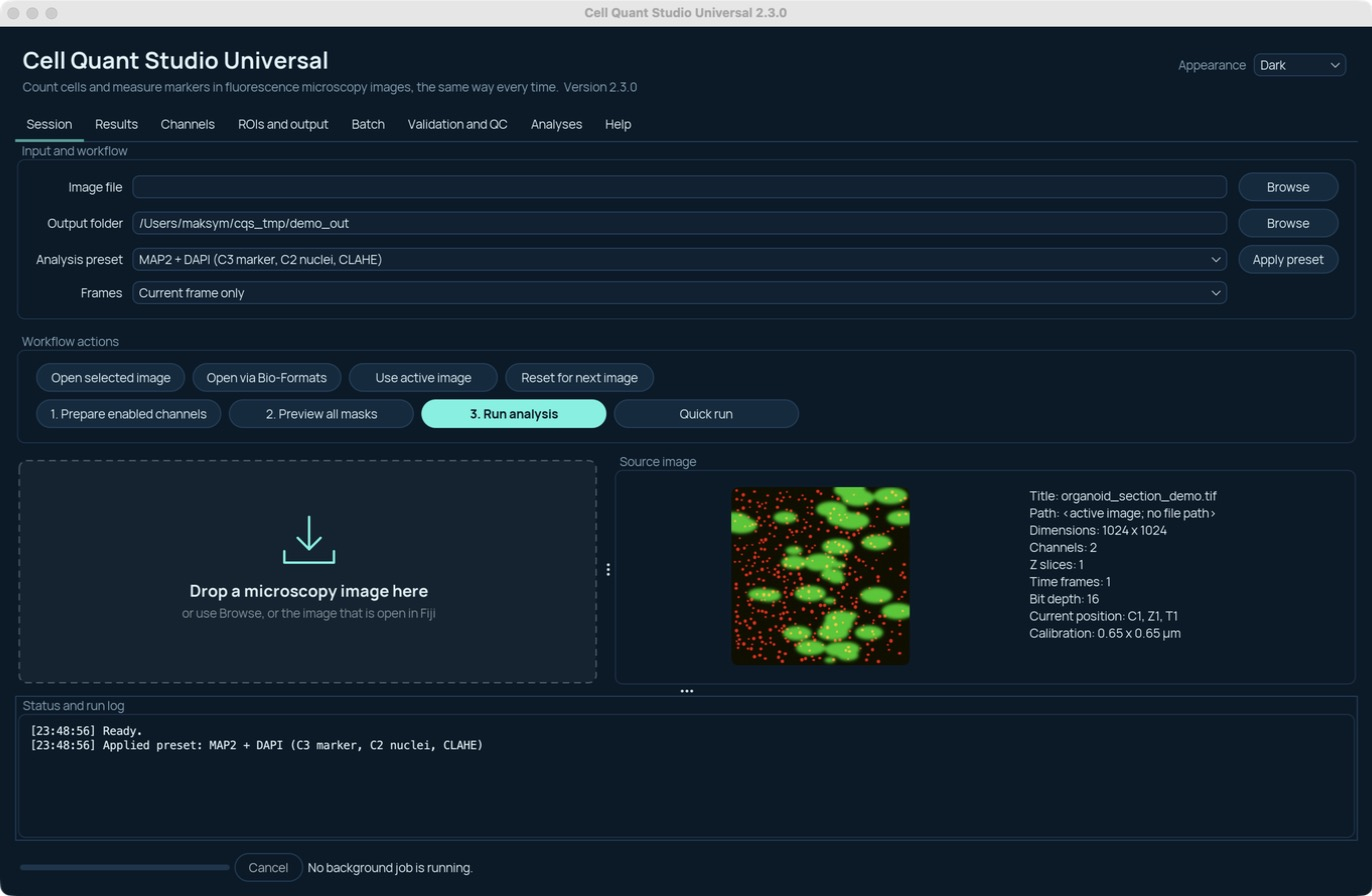
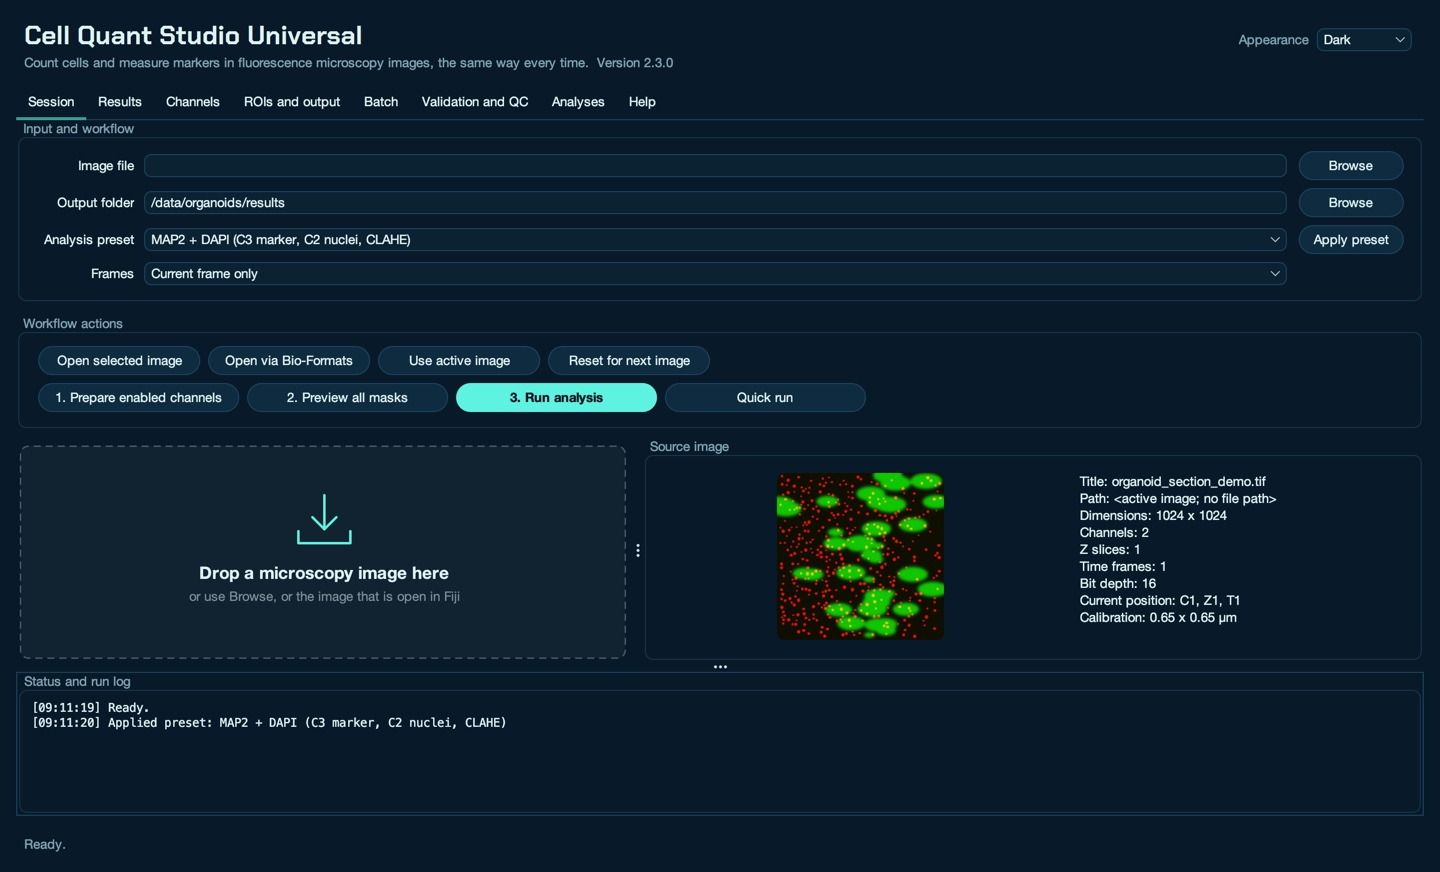
Session screenshot with the current fonts; state the licence of the fonts
- docs/images/session_tab.jpg is re-rendered: it still showed the earlier
  fonts, and its output-folder field showed a path on the machine it was
  taken on. It now shows a neutral path.
- README, licence section: the bundled typefaces are under the SIL Open
  Font License 1.1, not the GPL.

diff --git a/README.md b/README.md
@@ -495,7 +495,7 @@ Include the package version, Fiji and Java versions, operating system, image dim
 
 Citation metadata is in [CITATION.cff](CITATION.cff). Cite the version used, which is recorded in every table.
 
-Cell Quant Studio is free software, released under the [GNU General Public License, version 3 or later](LICENSE) (GPL-3.0-or-later). You may use, study, change and share it. If you distribute it, or a modified version, you must do so under the same licence and make the source code available. It comes with no warranty. The files in [legacy/](legacy/) are the author's earlier macros and are covered by the same licence.
+Cell Quant Studio is free software, released under the [GNU General Public License, version 3 or later](LICENSE) (GPL-3.0-or-later). You may use, study, change and share it. If you distribute it, or a modified version, you must do so under the same licence and make the source code available. It comes with no warranty. The typefaces in [fonts/](fonts/) are not covered by that licence: they are under the SIL Open Font License 1.1, whose text is beside them. The files in [legacy/](legacy/) are the author's earlier macros and are covered by the same licence.
 
 For other licensing terms (for example, use inside a closed-source product), contact the author.
 
